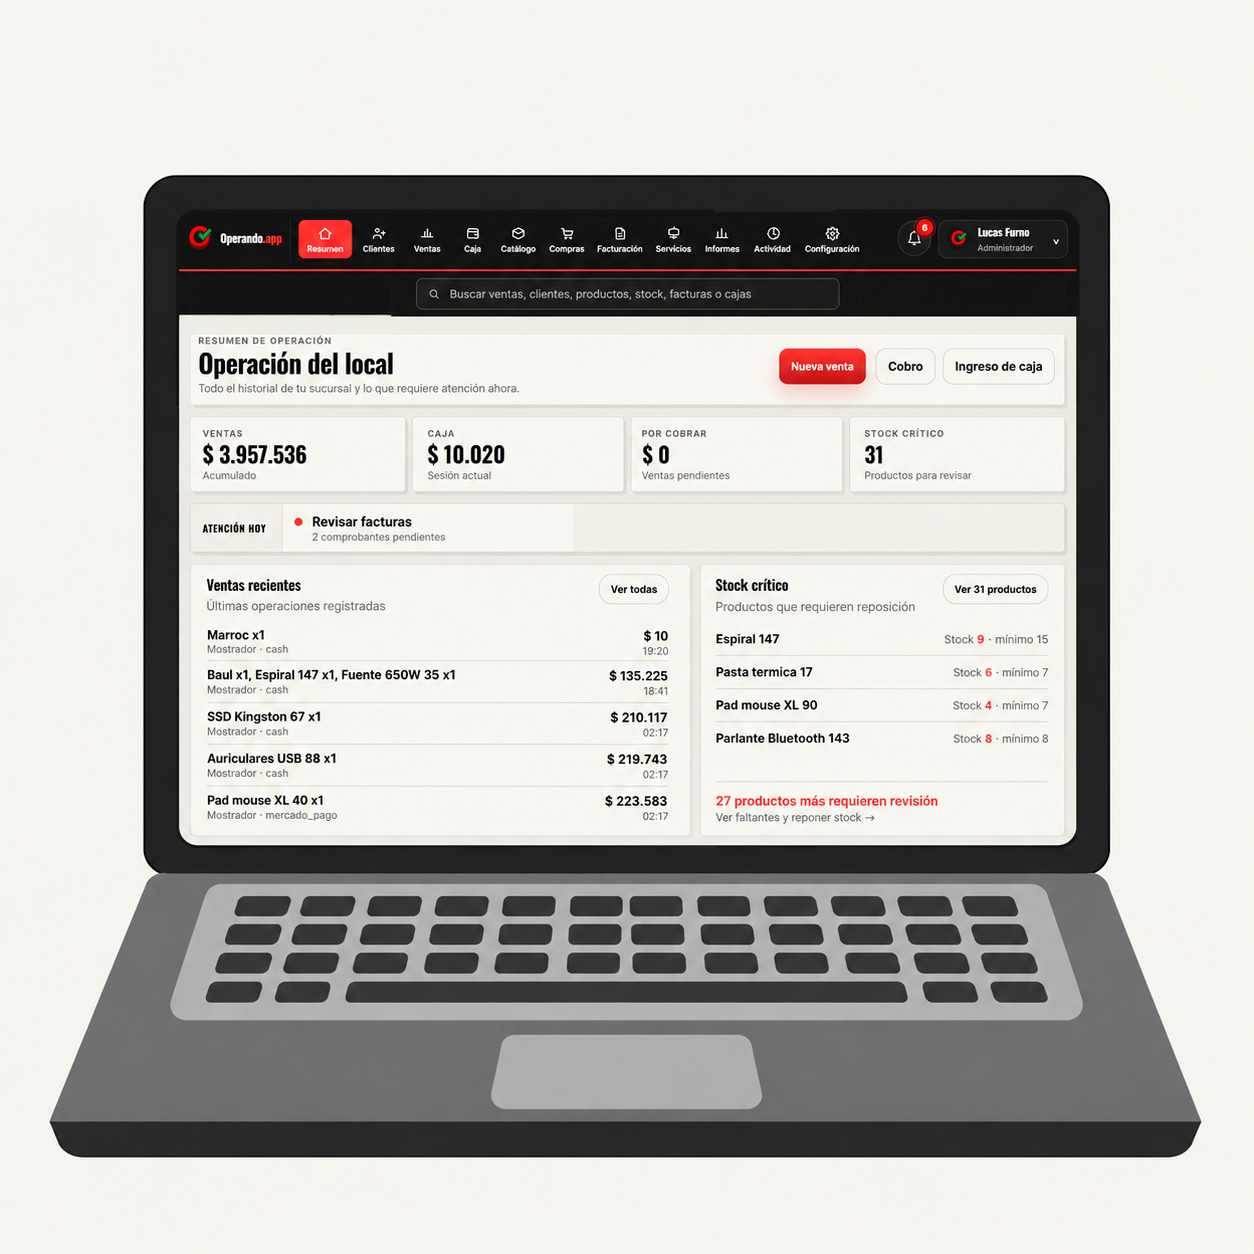
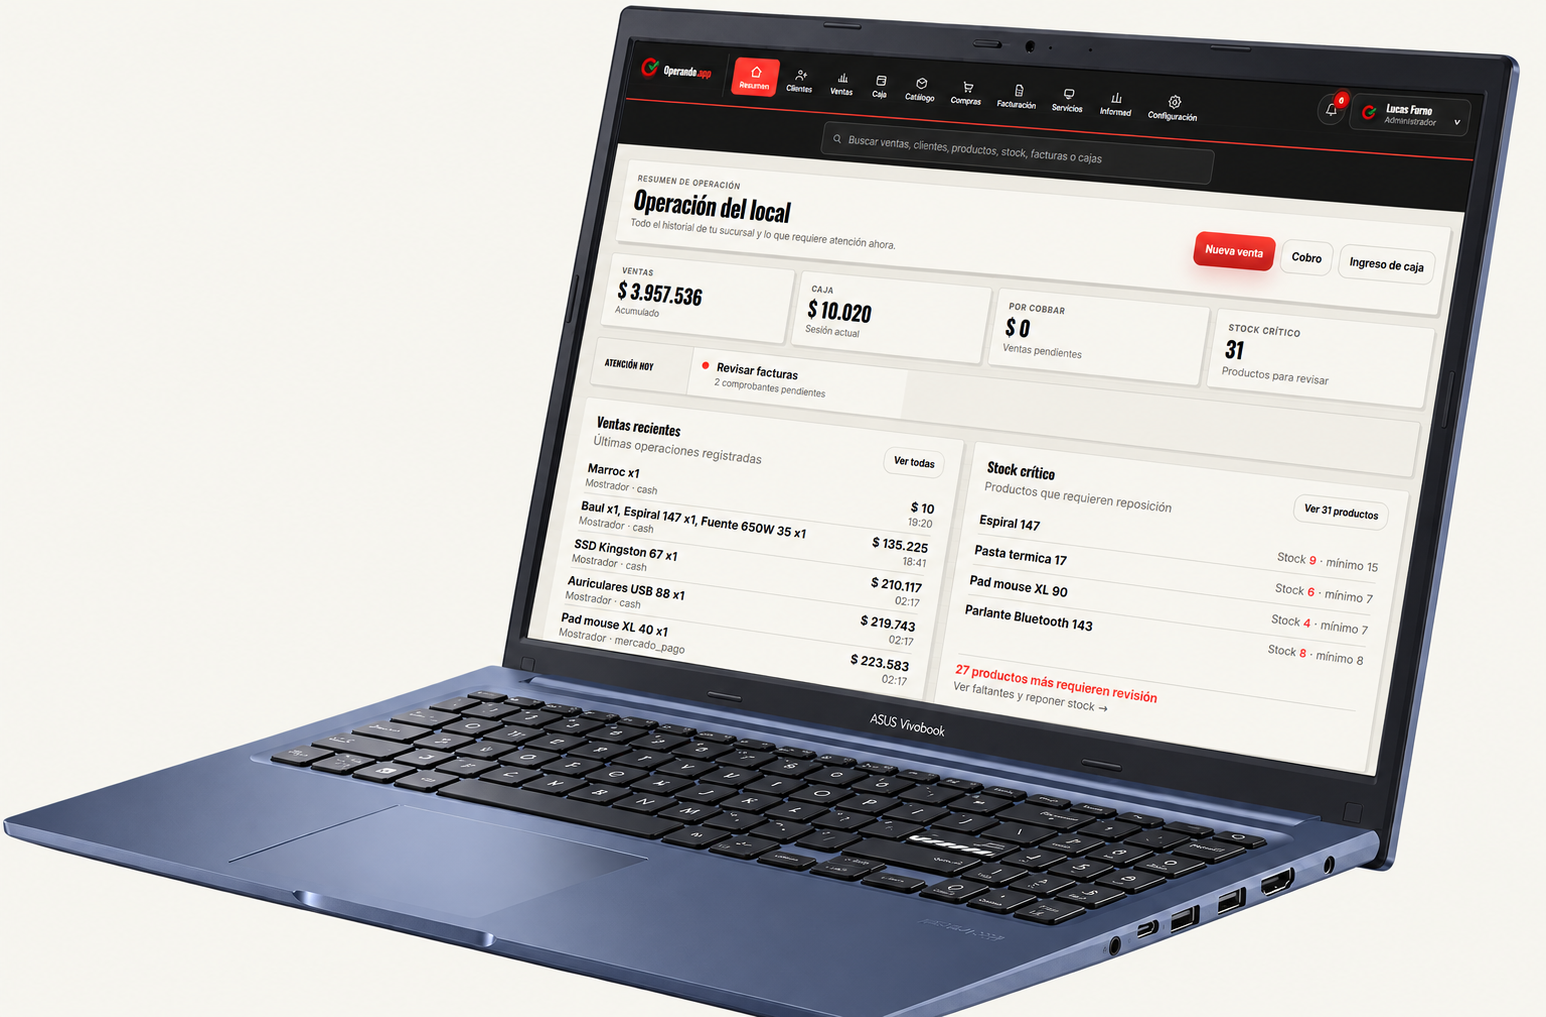
feat: use ASUS laptop with real dashboard hero

diff --git a/index.html b/index.html
@@ -83,10 +83,10 @@
   .real-pos-preview:hover { filter: brightness(1.05); }
   @media (max-width: 740px) { .real-pos-preview { padding:8px 8px 62px !important;border-radius:12px 12px 5px 5px !important;box-shadow:11px 12px 0 #ed211b !important; } .real-pos-preview::before { bottom:-54px;height:65px; } .real-pos-preview::after { bottom:-42px;height:17px; } .real-pos-preview > img { border-radius:5px !important; } }
   /* Imagen final: notebook de la referencia con el panel real compuesto en pantalla. */
-  .real-pos-preview { width: min(100%, 560px) !important; aspect-ratio: 1; padding: 0 !important; border: 0 !important; border-radius: 0 !important; background: url('/operando-notebook-panel.png') center / contain no-repeat !important; box-shadow: none !important; }
+  .real-pos-preview { width: min(100%, 640px) !important; aspect-ratio: 1.52; padding: 0 !important; border: 0 !important; border-radius: 0 !important; background: url('/operando-notebook-panel.png') center / contain no-repeat !important; box-shadow: none !important; }
   .real-pos-preview::before, .real-pos-preview::after { display: none; }
   .real-pos-preview > img { position: absolute; width: 1px !important; height: 1px !important; opacity: 0; pointer-events: none; }
-  @media (max-width: 740px) { .real-pos-preview { width: min(100%, 360px) !important; } }
+  @media (max-width: 740px) { .real-pos-preview { width: min(100%, 390px) !important; } }
 </style>
 <script>
 (function(){
